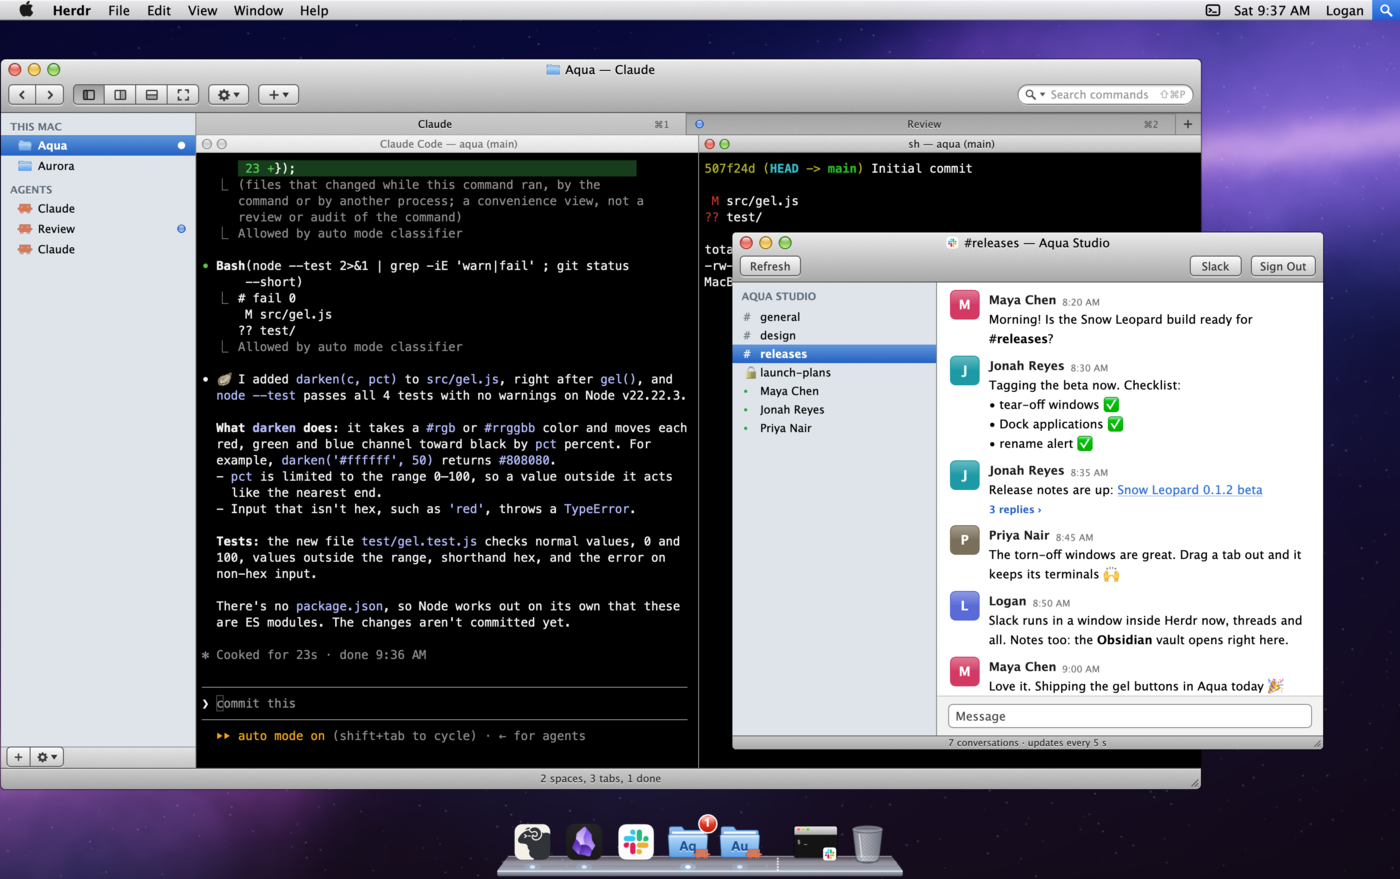
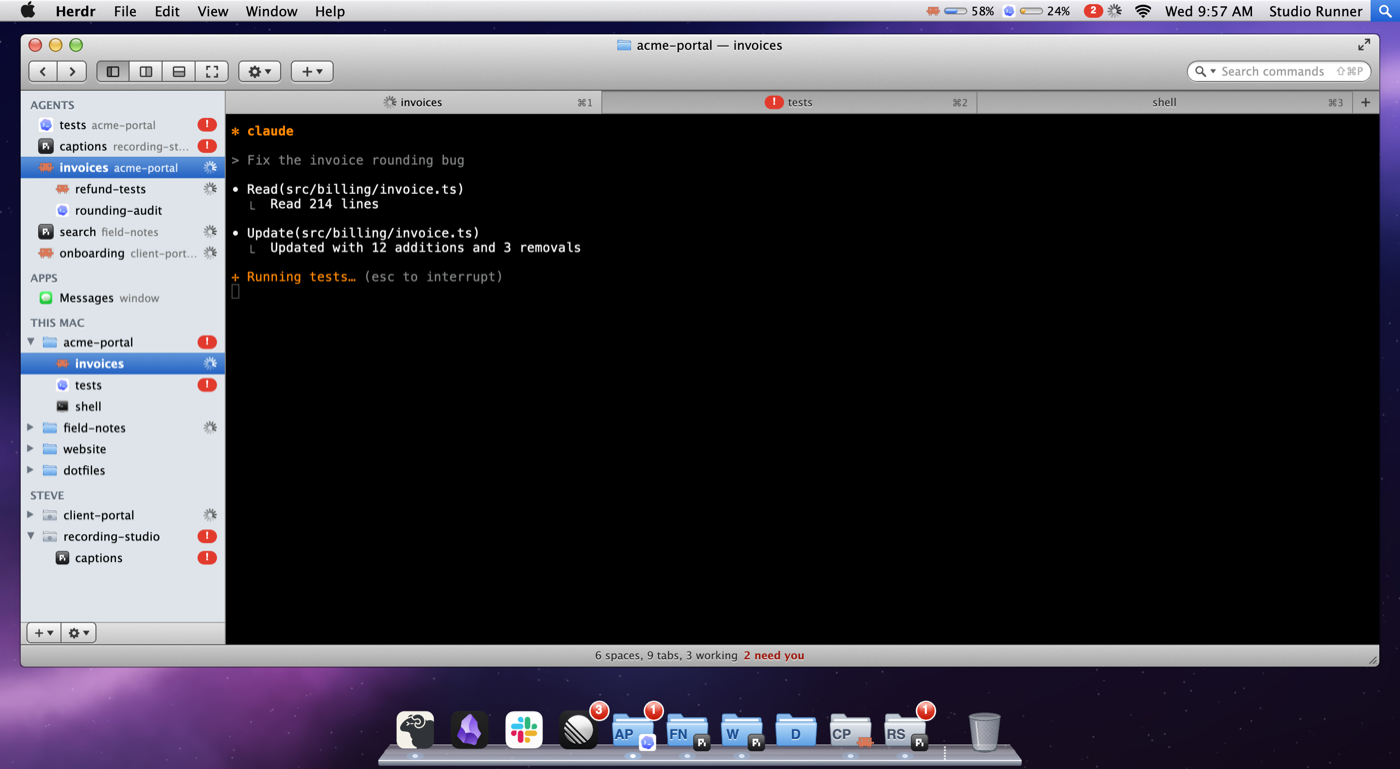
Screenshots: threads, Messages and full screen, from the Calypso demo

diff --git a/README.md b/README.md
@@ -192,6 +192,10 @@ and Dock icon runs a real Herdr command.
 
 ![A tab torn off into its own window, and a minimized window in the Dock](screenshots/windows.png)
 
+![Messages in an Aqua window, with Messages under APPS and two threads under an agent](screenshots/messages.png)
+
+![Full screen: the window alone fills the display](screenshots/fullscreen.png)
+
 ## Install
 
 Copy the folders into your Herdr home, then switch to the layout:
